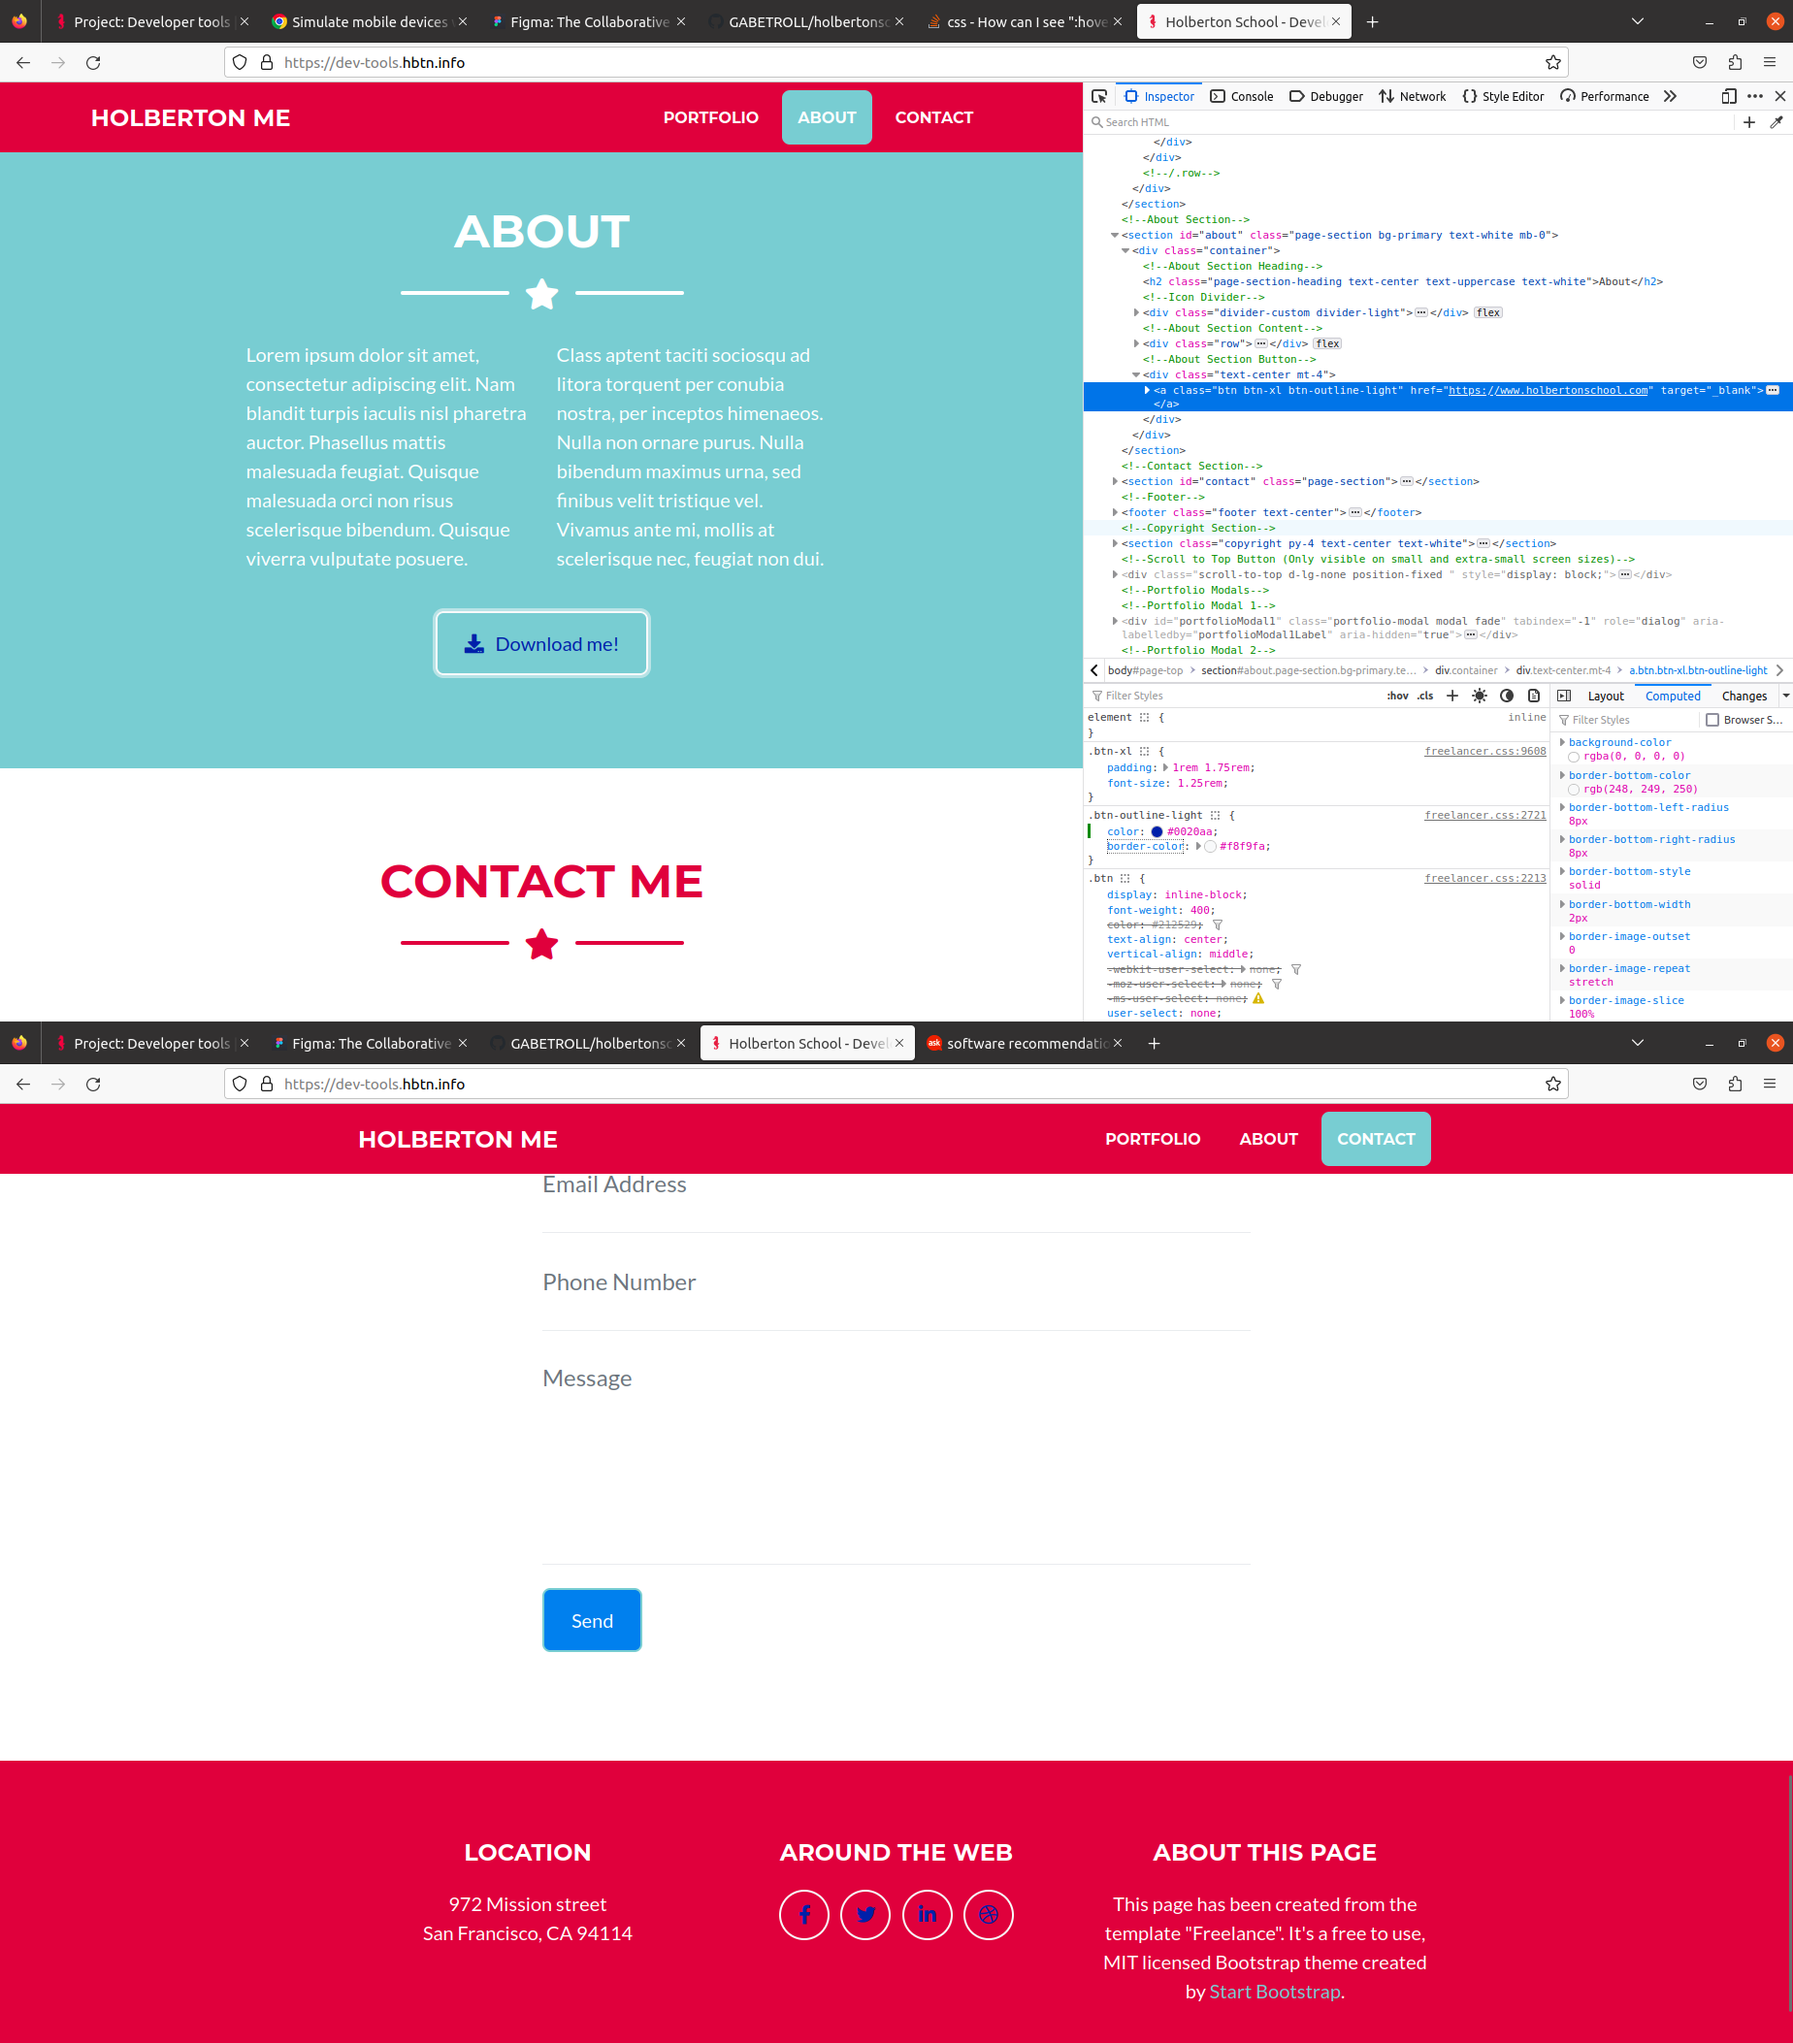
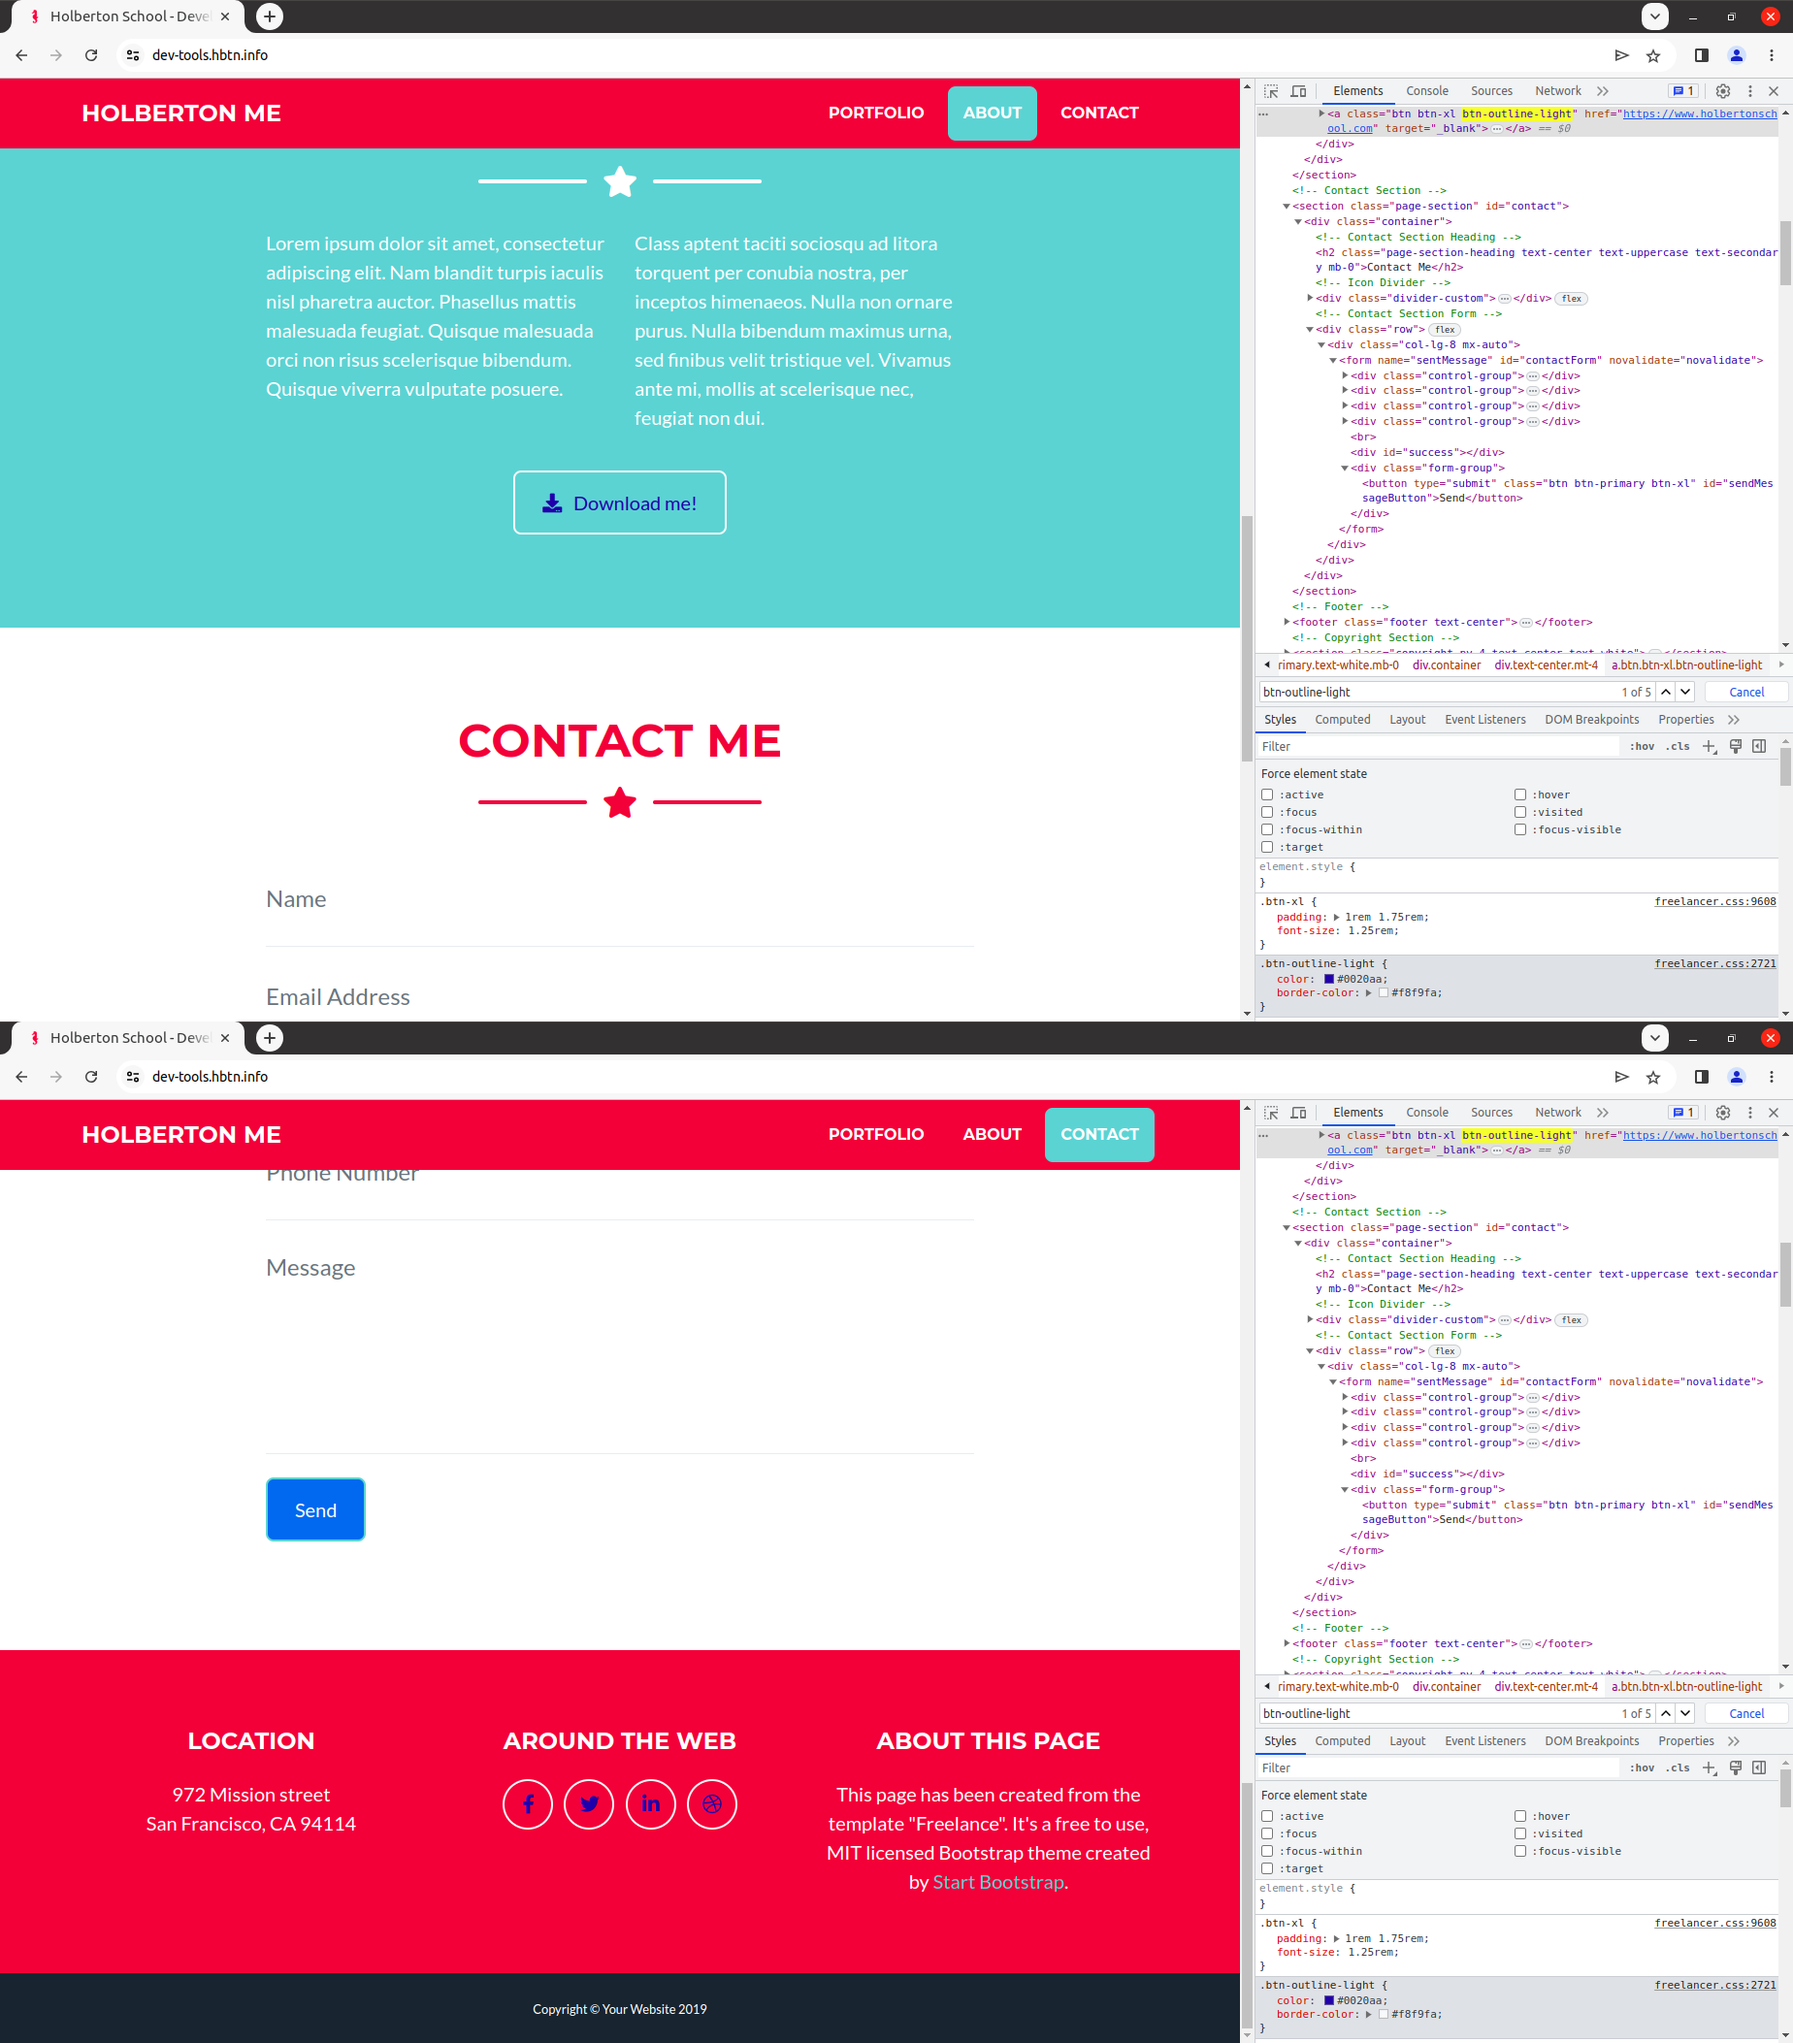
Change all of the answers gathered from FireFox, to Chrome answers (except #3 and #7)

diff --git a/developer_tools/README.md b/developer_tools/README.md
@@ -16,8 +16,10 @@ Each exercise's answer may be stored in a file starting with the same number.
 4. Change button styles in the DevTools
     https://developer.chrome.com/docs/devtools/css/
 5. Remove cake button
-    https://developer.chrome.com/docs/devtools/css/
-6. Where is the ``margin-bottom`` style of the "About" header defined?
+    https://dirask.com/posts/Google-Chrome-how-to-remove-html-element-in-chrome-dev-tools-pJ690p
+    (no need to do the first few steps, just right-click on the cake)
+6. Right-Click>Inspect the *ABOUT* ``h2``, and go to the ``Computed`` pane. Where is the ``margin-bottom`` style of the "About" header defined?
+    Just click on the arrow left of the property. *(It apparently gave me the right answer, but I'm not sure if this is a reliable way to do it. I could find any documentation on this. My apologies)*
 7. How many click event listeners are referenced in JavaScript files?
 8. What is the HSL format of the *Send!* button's ``background-color``?
     https://developer.chrome.com/docs/devtools/css/color/
